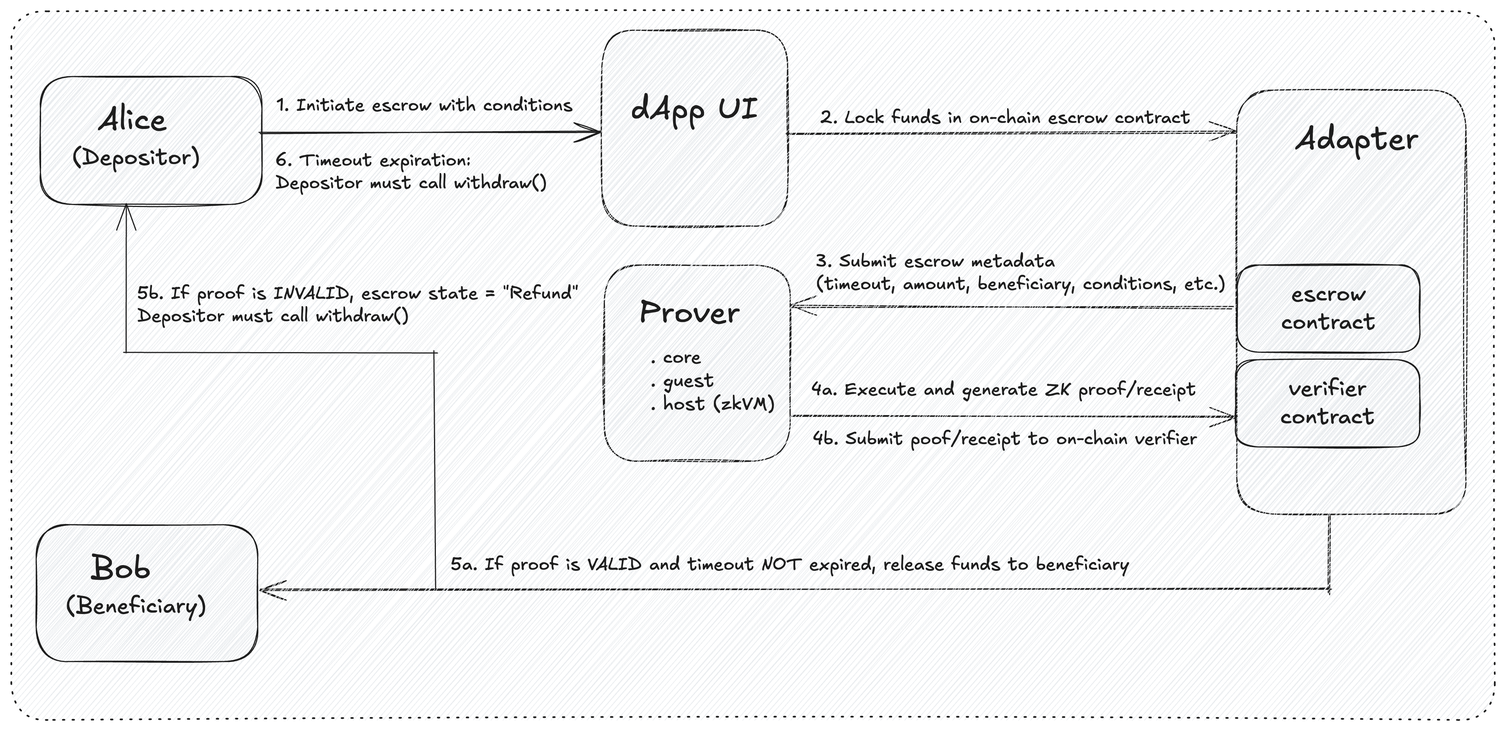
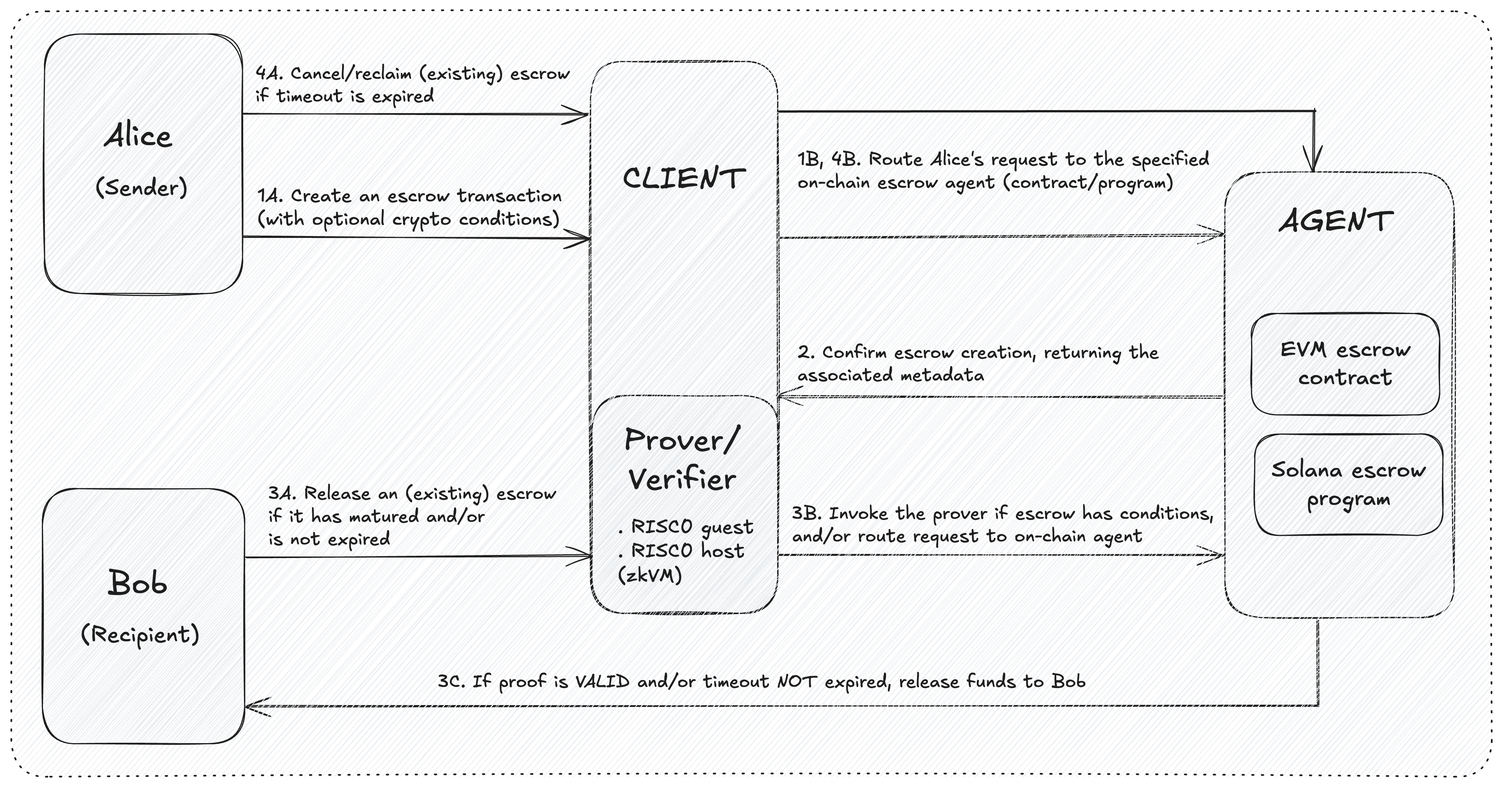
Update architecture diagram

diff --git a/README.md b/README.md
@@ -35,11 +35,7 @@ Zescrow (for zero-knowledge escrow) is a trust-minimized, chain-agnostic impleme
 4. To release an escrow, execute the `Finish` command of the `client`.
 5. To cancel/refund an escrow, execute the `Cancel` command of the `client`.
 
-![Zescrow architecture diagram](./assets/zescrow-arch.png)
-
-Zooming in on the proof generation routine, here's the interaction between the `prover` and the on-chain `agent`:
-
-![Proof generation flow diagram](./assets/proof-gen-flow.png)
+![Zescrow architecture diagram](/assets/zescrow-arch.png)
 
 ## Usage
 

diff --git a/.github/PULL_REQUEST_TEMPLATE.md b/.github/PULL_REQUEST_TEMPLATE.md
@@ -22,5 +22,3 @@ Closes #
 - [x] This PR does not affect public APIs
 - [x] This PR does not rely on a new version of external services
 - [x] This PR does not make changes to log messages (which monitoring infrastructure may rely on)
-
-By submitting this pull request, I confirm that my contribution is made under the terms of the Apache 2.0 license.
